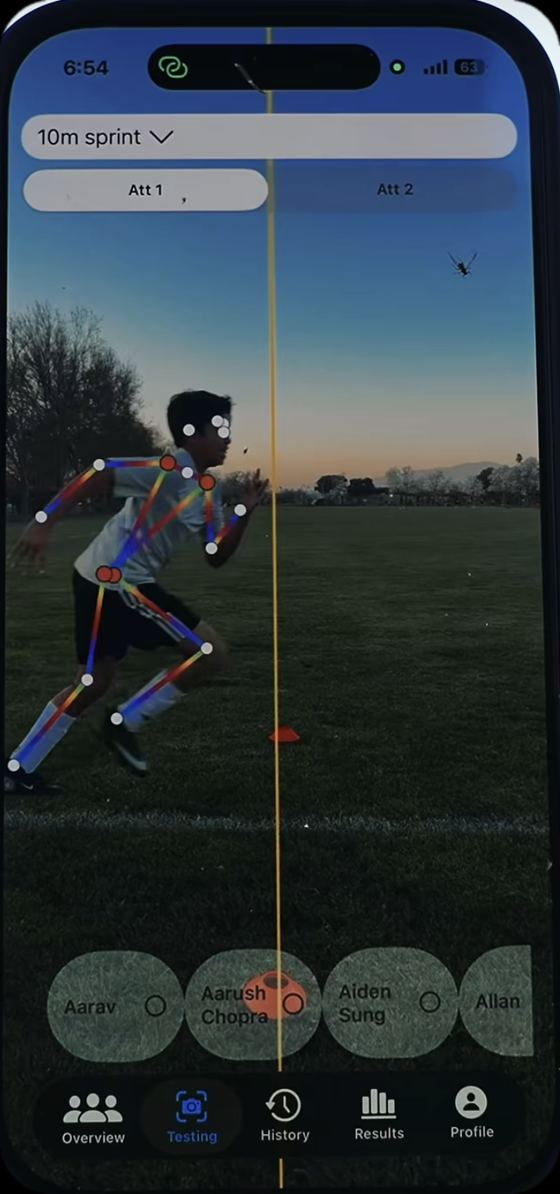
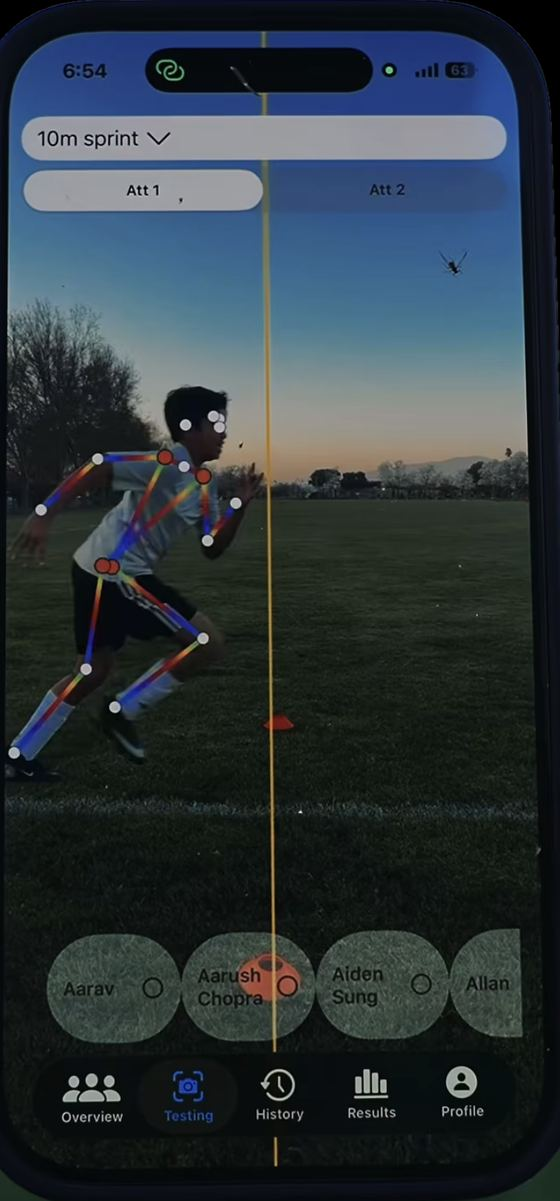
Add files via upload

diff --git a/index.html b/index.html
@@ -1048,7 +1048,7 @@ footer a:focus-visible{outline:2px solid var(--pink);outline-offset:3px}
         <span class="promo-screen">
           <picture>
             <source type="image/avif" srcset="assets/images/game1-map-340.avif 340w, assets/images/game1-map-560.avif 560w" sizes="(max-width:820px) 132px, 192px">
-            <img src="assets/images/game1-map-560.jpg" srcset="assets/images/game1-map-340.jpg 340w, assets/images/game1-map-560.jpg 560w" sizes="(max-width:820px) 132px, 192px" width="560" height="1194" loading="lazy" decoding="async" alt="Telefoon die tijdens een sprinttest een speler doormeet, met de bewegingspunten van de AI over het beeld">
+            <img src="assets/images/game1-map-560.jpg" srcset="assets/images/game1-map-340.jpg 340w, assets/images/game1-map-560.jpg 560w" sizes="(max-width:820px) 132px, 192px" width="560" height="1201" loading="lazy" decoding="async" alt="Telefoon die tijdens een sprinttest een speler doormeet, met de bewegingspunten van de AI over het beeld">
           </picture>
         </span>
       </a>
